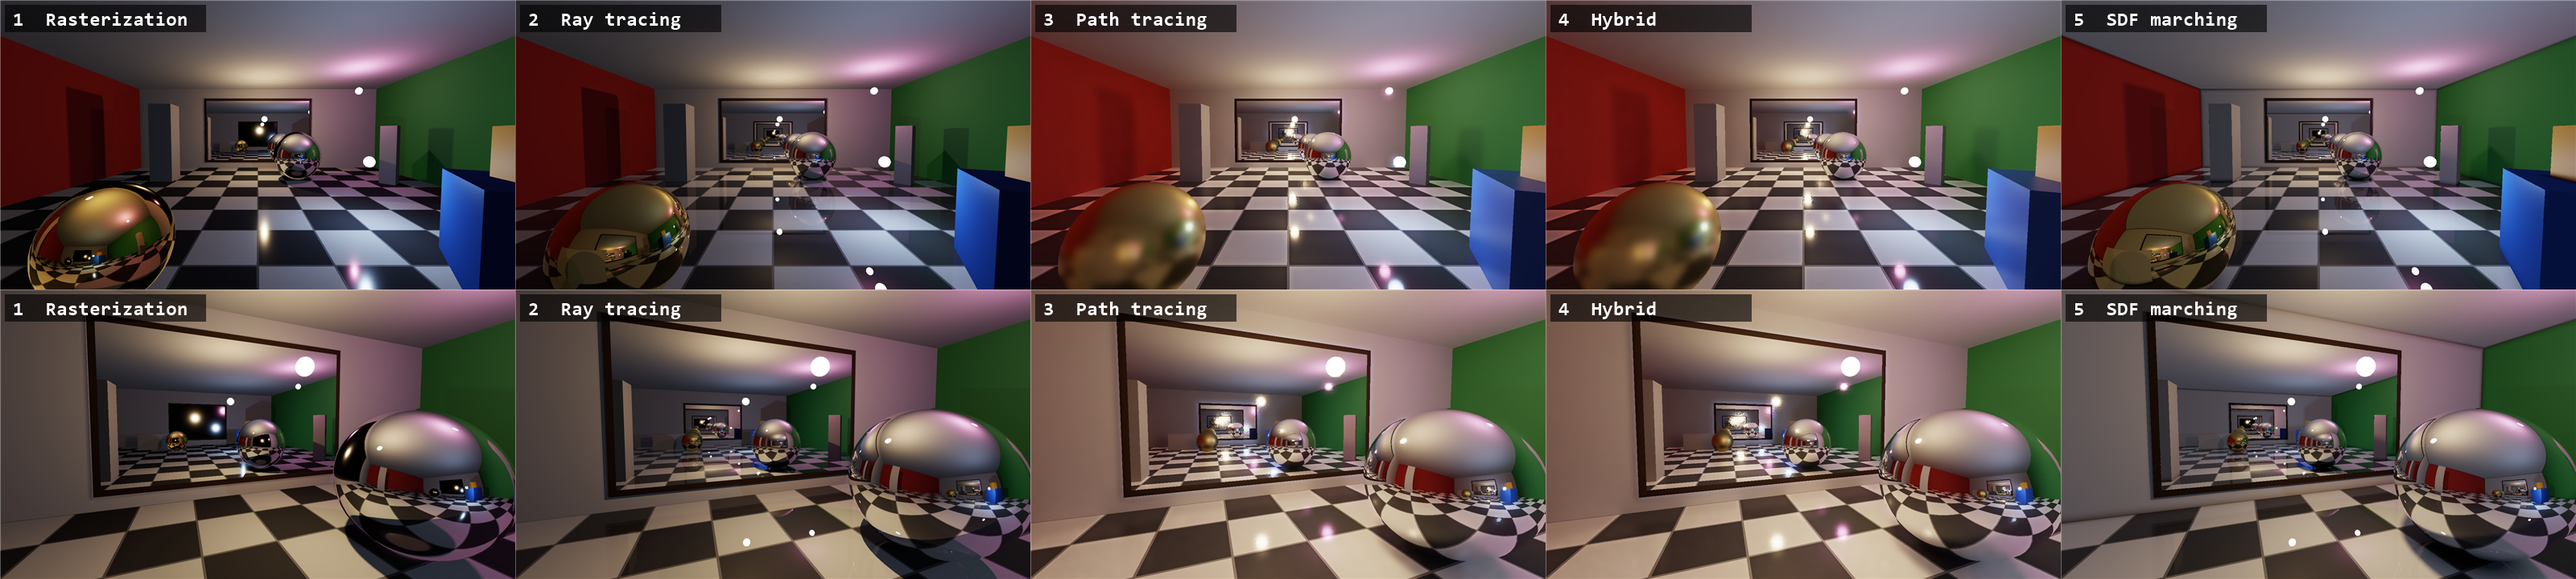
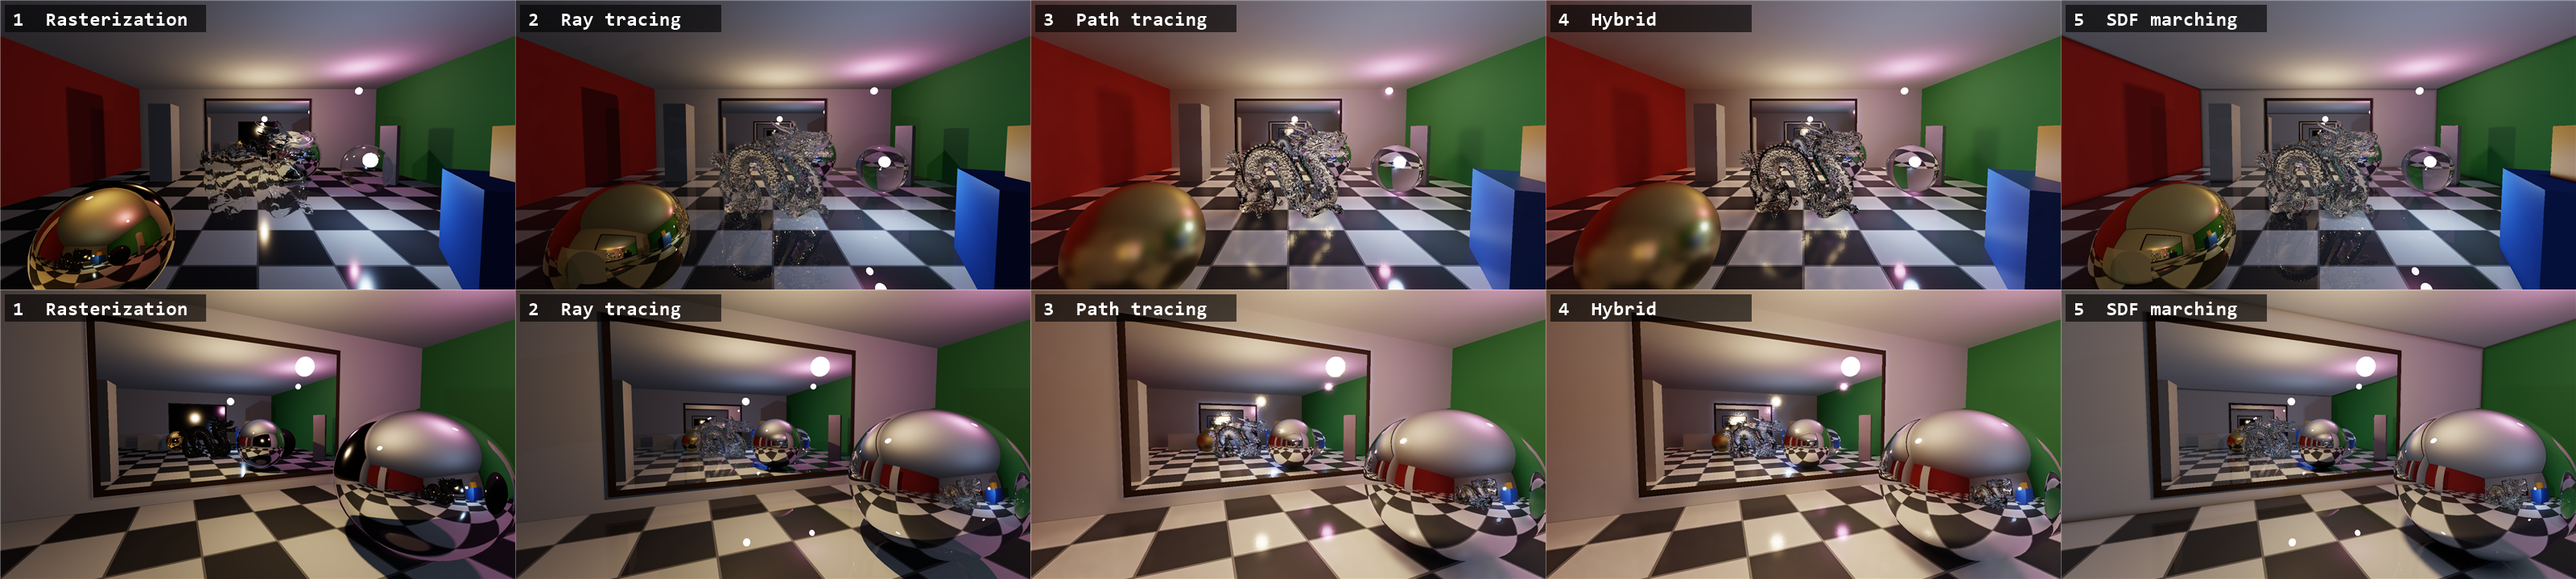
Add glass ball, generic glass handling, SDF shadow culling and --bench
- Static glass sphere; glass now works for any object in every mode
  (raster PS_Glass pass, RT via separate static-glass BLAS/instance,
  SDF per-primitive interior marching and tinted shadows)
- SDF soft shadows/AO only evaluate primitives near the query
  (bounding-sphere bitmasks), ~3x faster with the dragon
- --bench <dir>: GPU time per mode and model material
- Updated README comparison image and docs

diff --git a/src/RtxSlop/Renderer.cs b/src/RtxSlop/Renderer.cs
@@ -66,7 +66,7 @@ public sealed unsafe class Renderer : IDisposable
 
     // static scene data
     ID3D12Resource vb, ib, matBuf, sdfBuf;
-    ID3D12Resource blasStatic, blasSphere, blasMesh, tlas, tlasScratch;
+    ID3D12Resource blasStatic, blasGlass, blasSphere, blasMesh, tlas, tlasScratch;
     GpuTexture meshSdf;
     Vector3 meshSdfMin, meshSdfMax;
     readonly List<(int Index, Material Material)> pendingMaterials = new();
@@ -308,7 +308,9 @@ public sealed unsafe class Renderer : IDisposable
         }
 
         cl.ResourceBarrierUnorderedAccessView(null);
-        blasStatic = BuildBlas("BLAS static", 0, scene.StaticIndexCount);
+        blasStatic = BuildBlas("BLAS static", 0, scene.GlassFirstIndex);
+        if (scene.StaticIndexCount > scene.GlassFirstIndex)
+            blasGlass = BuildBlas("BLAS static glass", scene.GlassFirstIndex, scene.StaticIndexCount - scene.GlassFirstIndex);
         blasSphere = BuildBlas("BLAS light sphere", scene.SphereFirstIndex, scene.SphereIndexCount);
         if (scene.HasMesh)
             blasMesh = BuildBlas("BLAS mesh", scene.MeshFirstIndex, scene.MeshIndexCount);
@@ -341,7 +343,7 @@ public sealed unsafe class Renderer : IDisposable
         foreach (var u in uploads) u.Dispose();
     }
 
-    int TlasInstanceCount => 1 + scene.Lights.Length + (scene.HasMesh ? 1 : 0);
+    int TlasInstanceCount => 1 + scene.Lights.Length + (scene.HasMesh ? 1 : 0) + (blasGlass != null ? 1 : 0);
 
     // ---------------------------------------------------------------------------------------------
     // SDF mode: bake the mesh into a 3D signed distance texture (SdfBake.hlsl), once at startup
@@ -808,6 +810,7 @@ public sealed unsafe class Renderer : IDisposable
             ShadowIndex = SlotShadow, ProbeIndex = SlotProbe, StaticIndexCount = (uint)scene.StaticIndexCount,
             ProbePos = scene.ProbePositions[0], ShadowNear = ShadowNear, ShadowFar = ShadowFar,
             MeshFirstIndex = (uint)scene.MeshFirstIndex,
+            GlassFirstIndex = (uint)scene.GlassFirstIndex,
             MeshMaterial = scene.HasMesh ? (uint)scene.MeshMaterialIndex : 0xFFFFFFFFu,
             MeshSdfIndex = SlotMeshSdf, MeshSdfMin = meshSdfMin, MeshSdfMax = meshSdfMax,
         };
@@ -962,7 +965,7 @@ public sealed unsafe class Renderer : IDisposable
     void RenderRaster(UploadRing ring, Camera camera, Matrix4x4 view, Matrix4x4 proj, ulong mainPass, bool msaa)
     {
         var noClip = new Vector4(0, 0, 0, 1);
-        bool meshGlass = scene.MeshIsGlass;
+        var glassObjects = scene.Objects.Where(scene.IsGlass).ToList();
 
         // 1) omnidirectional shadow maps: 6 faces per light
         Transition(shadowMap, ResourceStates.DepthWrite);
@@ -977,8 +980,8 @@ public sealed unsafe class Renderer : IDisposable
                 cl.OMSetRenderTargets(0, (CpuDescriptorHandle*)null, false, dsv);
                 cl.ClearDepthStencilView(dsv, ClearFlags.Depth, 1, 0);
                 cl.SetGraphicsRootConstantBufferView(2, ring.Push(new PassData { ViewProj = CubeFaceViewProj(lp, f, ShadowNear, ShadowFar), CamPos = lp, ClipPlane = noClip }));
-                // mirrors hug the walls (nothing behind them to shadow); a glass mesh lets the light through
-                DrawScene(o => o.MirrorIndex < 0 && !(o.IsMesh && meshGlass), false);
+                // mirrors hug the walls (nothing behind them to shadow); glass lets the light through
+                DrawScene(o => o.MirrorIndex < 0 && !scene.IsGlass(o), false);
             }
         }
         Transition(shadowMap, ResourceStates.AllShaderResource);
@@ -1041,10 +1044,10 @@ public sealed unsafe class Renderer : IDisposable
         cl.ClearRenderTargetView(color.Rtv, new Color4(0, 0, 0, 1));
         cl.ClearDepthStencilView(dsvMain, ClearFlags.Depth, 1, 0);
         cl.SetGraphicsRootConstantBufferView(2, mainPass);
-        DrawScene(o => !(o.IsMesh && meshGlass), true);
+        DrawScene(o => !scene.IsGlass(o), true);
 
         // 5) glass: needs the finished opaque image to refract, so copy it and draw the mesh on top
-        if (meshGlass)
+        if (glassObjects.Count > 0)
         {
             if (msaa) ResolveMsaa();
             Transition(hdr, ResourceStates.CopySource);
@@ -1054,9 +1057,11 @@ public sealed unsafe class Renderer : IDisposable
             Transition(color, ResourceStates.RenderTarget);
             cl.OMSetRenderTargets(color.Rtv, dsvMain);
             cl.SetPipelineState(msaa ? psoGlassMsaa : psoGlass);
-            var mesh = scene.Objects.First(o => o.IsMesh);
-            RootConstants(false, (uint)mesh.FirstIndex, 0xFFFFFFFF, SlotSceneColor);
-            cl.DrawInstanced((uint)mesh.IndexCount, 1, 0, 0);
+            foreach (var o in glassObjects)
+            {
+                RootConstants(false, (uint)o.FirstIndex, 0xFFFFFFFF, SlotSceneColor);
+                cl.DrawInstanced((uint)o.IndexCount, 1, 0, 0);
+            }
         }
         if (msaa) ResolveMsaa();
     }
@@ -1083,8 +1088,11 @@ public sealed unsafe class Renderer : IDisposable
             var m = Matrix4x4.CreateScale(L.Radius) * Matrix4x4.CreateTranslation(L.Pos);
             inst[1 + i] = InstanceDesc.Create(m, (uint)(1 + i), 0x02, blasSphere.GPUVirtualAddress);
         }
+        int next = 1 + scene.Lights.Length;
         if (scene.HasMesh)
-            inst[1 + scene.Lights.Length] = InstanceDesc.Create(Matrix4x4.Identity, 100, 0x04, blasMesh.GPUVirtualAddress);   // INSTANCE_MESH, MASK_MESH
+            inst[next++] = InstanceDesc.Create(Matrix4x4.Identity, 100, 0x04, blasMesh.GPUVirtualAddress);    // INSTANCE_MESH, MASK_MESH
+        if (blasGlass != null)
+            inst[next++] = InstanceDesc.Create(Matrix4x4.Identity, 101, 0x08, blasGlass.GPUVirtualAddress);   // INSTANCE_GLASS, MASK_GLASS
         tlasInputs.InstanceDescriptions = a.Gpu;
         cl.BuildRaytracingAccelerationStructure(new BuildRaytracingAccelerationStructureDescription
         {
@@ -1241,7 +1249,7 @@ public sealed unsafe class Renderer : IDisposable
         WaitIdle();
         ReleaseSizeDependent();
         DisposePipelines();
-        foreach (var d in new IDisposable[] { shadowMap, probes[0], probes[1], probeDepth, hud, meshSdf, vb, ib, matBuf, sdfBuf, blasStatic, blasSphere, blasMesh, tlas, tlasScratch, queryHeap, queryReadback })
+        foreach (var d in new IDisposable[] { shadowMap, probes[0], probes[1], probeDepth, hud, meshSdf, vb, ib, matBuf, sdfBuf, blasStatic, blasGlass, blasSphere, blasMesh, tlas, tlasScratch, queryHeap, queryReadback })
             d?.Dispose();
         foreach (var r in rings) r.Dispose();
         foreach (var a in allocators) a.Dispose();

diff --git a/src/RtxSlop/Program.cs b/src/RtxSlop/Program.cs
@@ -21,7 +21,7 @@ static class Program
         catch (Exception ex)
         {
             File.WriteAllText(Path.Combine(AppContext.BaseDirectory, "error.log"), ex.ToString());
-            if (!args.Contains("--capture"))
+            if (!args.Contains("--capture") && !args.Contains("--bench"))
                 MessageBox.Show(ex.ToString(), "RtxSlop - fatal error", MessageBoxButtons.OK, MessageBoxIcon.Error);
         }
     }
@@ -35,7 +35,7 @@ sealed class MainForm : Form
     readonly RenderSettings settings = new();
     readonly HashSet<Keys> keys = new();
     readonly string shaderDir = Path.Combine(AppContext.BaseDirectory, "Shaders");
-    readonly string captureDir;
+    readonly string captureDir, benchDir;
 
     bool mouseCaptured;
     readonly string modelInfo;
@@ -62,6 +62,8 @@ sealed class MainForm : Form
         bool debug = args.Contains("--debug");
         int ci = Array.IndexOf(args, "--capture");
         if (ci >= 0) captureDir = ci + 1 < args.Length ? args[ci + 1] : "captures";
+        int bi = Array.IndexOf(args, "--bench");
+        if (bi >= 0) benchDir = bi + 1 < args.Length ? args[bi + 1] : ".";
 
         // polygon model: --model <file.obj>, else data/dragon/dragon.obj found above the exe; --no-model disables it
         ObjMesh mesh = null;
@@ -100,6 +102,14 @@ sealed class MainForm : Form
     public void Run()
     {
         Show();
+        if (benchDir != null)
+        {
+            showHud = false;
+            renderer.SetHud(DrawHud());
+            Directory.CreateDirectory(benchDir);
+            File.WriteAllText(Path.Combine(benchDir, "bench.txt"), MeasureTimings(allPresets: true));
+            return;
+        }
         if (captureDir != null)
         {
             RunCaptureScript();
@@ -319,6 +329,29 @@ sealed class MainForm : Form
     // ---------------------------------------------------------------------------------------------
     // --capture <dir>: render fixed viewpoints in every mode and save PNGs (used for testing)
     // ---------------------------------------------------------------------------------------------
+    /// <summary>GPU time of every mode from the front view with moving lights (optionally for every model material).</summary>
+    string MeasureTimings(bool allPresets)
+    {
+        camera.Position = new Vector3(0, 1.7f, -4.6f); camera.Yaw = 0; camera.Pitch = -0.05f;
+        var sb = new System.Text.StringBuilder();
+        sb.AppendLine($"{renderer.AdapterName}, {renderer.Width}x{renderer.Height}" + (scene.HasMesh ? $", model: {modelInfo}" : ""));
+        int presets = allPresets && scene.HasMesh ? scene.MeshPresets.Length : 1;
+        for (int p = 0; p < presets; p++)
+        {
+            if (p > 0) CycleMeshMaterial();
+            if (scene.HasMesh) sb.AppendLine($"-- model material: {scene.MeshPresets[scene.MeshPreset].Name}");
+            foreach (RenderMode mode in Enum.GetValues<RenderMode>())
+            {
+                settings.Mode = mode;
+                settings.LightsAnimating = true;
+                for (int i = 0; i < 120; i++) { lightTime += 1f / 120; scene.UpdateLights(lightTime); renderer.Render(camera, settings, lightTime); }
+                sb.AppendLine($"{mode,-10} {renderer.GpuTimeMs,7:F2} ms");
+            }
+        }
+        if (presets > 1) CycleMeshMaterial();   // back to where we started
+        return sb.ToString();
+    }
+
     void RunCaptureScript()
     {
         var views = new (string Name, Vector3 Pos, float Yaw, float Pitch)[]
@@ -398,22 +431,7 @@ sealed class MainForm : Form
         renderer.RequestCapture(Path.Combine(captureDir, "front_2_PathTrace_1spp_denoised.png"));
         renderer.Render(camera, settings, lightTime);
 
-        // timing sample
-        var sb = new System.Text.StringBuilder();
-        foreach (RenderMode mode in Enum.GetValues<RenderMode>())
-        {
-            settings.Mode = mode;
-            settings.LightsAnimating = true;
-            for (int i = 0; i < 120; i++) { lightTime += 1f / 120; scene.UpdateLights(lightTime); renderer.Render(camera, settings, lightTime); }
-            sb.AppendLine($"{mode}: gpu {renderer.GpuTimeMs:F2} ms @ {renderer.Width}x{renderer.Height}");
-        }
-        settings.Mode = RenderMode.Sdf;
-        settings.SdfAntiAliasing = true;
-        for (int i = 0; i < 120; i++) { lightTime += 1f / 120; scene.UpdateLights(lightTime); renderer.Render(camera, settings, lightTime); }
-        sb.AppendLine($"Sdf (4x SSAA): gpu {renderer.GpuTimeMs:F2} ms");
-        settings.SdfAntiAliasing = false;
-        if (scene.HasMesh) sb.AppendLine($"model: {modelInfo}, material {scene.MeshPresets[scene.MeshPreset].Name}");
-        File.WriteAllText(Path.Combine(captureDir, "timings.txt"), sb.ToString());
+        File.WriteAllText(Path.Combine(captureDir, "timings.txt"), MeasureTimings(allPresets: false));
 
         // resize path: swap chain + every size dependent target is recreated
         ClientSize = new Size(1280, 720);

diff --git a/src/RtxSlop/Scene.cs b/src/RtxSlop/Scene.cs
@@ -58,6 +58,7 @@ public sealed class SceneObject
     public int IndexCount;
     public int MirrorIndex = -1;     // >= 0 if this object is a planar mirror
     public int ProbeCenter = -1;     // >= 0: reflection probe captured from inside this object (it is skipped there)
+    public int Material = -1;        // material of the object's vertices
     public bool IsMesh;              // the loaded .obj model
 }
 
@@ -85,6 +86,7 @@ public sealed class Scene
     public int SdfPlaneCount;   // the same room as signed distance fields
 
     public int StaticIndexCount;
+    public int GlassFirstIndex;      // [GlassFirstIndex, StaticIndexCount) = static glass objects
     public int SphereFirstIndex, SphereIndexCount;
     public readonly Vector3[] ProbePositions = new Vector3[2];   // 0 = chrome sphere, 1 = mesh
 
@@ -98,7 +100,7 @@ public sealed class Scene
     public const float HalfX = 6f, HalfZ = 6f, Height = 4f;
 
     // Material indices
-    int mFloor, mWhite, mRed, mGreen, mCeiling, mFrame, mStone, mBlue, mOrange, mChrome, mGold;
+    int mFloor, mWhite, mRed, mGreen, mCeiling, mFrame, mStone, mBlue, mOrange, mChrome, mGold, mGlass;
 
     public Scene(Func<int, uint> mirrorTextureSlot, Func<int, uint> probeSlot, ObjMesh mesh)
     {
@@ -113,6 +115,8 @@ public sealed class Scene
         mOrange = AddMaterial(new Vector3(0.9f, 0.4f, 0.05f), 0.5f, 0);
         mChrome = AddMaterial(new Vector3(0.95f, 0.95f, 0.95f), 0.02f, 1, flags: Material.FlagProbe, tex: probeSlot(0));
         mGold = AddMaterial(new Vector3(1.0f, 0.78f, 0.34f), 0.25f, 1, flags: Material.FlagProbe, tex: probeSlot(0));
+        mGlass = AddMaterial(new Vector3(0.92f, 0.97f, 1.0f), 0, 0, Material.Glass, tex: probeSlot(0));
+        Materials[mGlass] = Materials[mGlass] with { Ior = 1.5f };
         MeshPresets = new (string, Material)[]
         {
             ("jade", new Material { Albedo = new Vector3(0.18f, 0.55f, 0.36f), Roughness = 0.45f }),
@@ -166,6 +170,10 @@ public sealed class Scene
         AddSphere(ProbePositions[0], 0.9f, mChrome, 64, 32); End();
         Begin("GoldSphere"); AddSphere(new(-1.5f, 0.6f, -2.5f), 0.6f, mGold, 48, 24); End();
 
+        // static glass goes last: it gets its own BLAS/instance so shadow rays can treat it separately
+        GlassFirstIndex = Indices.Count;
+        Begin("GlassSphere"); AddSphere(new(3.2f, 0.7f, 1.5f), 0.7f, mGlass, 64, 32); End();
+
         StaticIndexCount = Indices.Count;
 
         ProbePositions[1] = new Vector3(0, 1.0f, 0);
@@ -207,6 +215,7 @@ public sealed class Scene
 
         var obj = Begin("Mesh");
         obj.IsMesh = true;
+        obj.Material = MeshMaterialIndex;
         obj.ProbeCenter = 1;
         MeshFirstIndex = Indices.Count;
         foreach (int i in mesh.Indices) Indices.Add(baseV + (uint)i);
@@ -234,7 +243,7 @@ public sealed class Scene
         return Materials[MeshMaterialIndex];
     }
 
-    public bool MeshIsGlass => HasMesh && Materials[MeshMaterialIndex].Type == Material.Glass;
+    public bool IsGlass(SceneObject o) => o.Material >= 0 && Materials[o.Material].Type == Material.Glass;
 
     public void UpdateLights(float t)
     {
@@ -317,6 +326,7 @@ public sealed class Scene
     uint AddVertex(Vector3 p, Vector3 n, int mat)
     {
         Vertices.Add(new Vertex { Pos = p, Normal = n, Material = (uint)mat });
+        if (current != null) current.Material = mat;
         return (uint)(Vertices.Count - 1);
     }
 

diff --git a/src/RtxSlop/GpuTypes.cs b/src/RtxSlop/GpuTypes.cs
@@ -36,7 +36,7 @@ public struct FrameData
     public uint VbIndex, IbIndex, MatIndex, TlasIndex;
     public uint ShadowIndex, ProbeIndex, StaticIndexCount, MeshFirstIndex;
     public Vector3 ProbePos; public float ShadowNear;
-    public float ShadowFar; public uint MeshMaterial, MeshSdfIndex, Pad1;
+    public float ShadowFar; public uint MeshMaterial, MeshSdfIndex, GlassFirstIndex;
     public Vector3 MeshSdfMin; public float Pad2;
     public Vector3 MeshSdfMax; public float Pad3;
 }

diff --git a/CLAUDE.md b/CLAUDE.md
@@ -19,7 +19,7 @@ There are no unit tests. Verification is visual, via the built-in capture mode:
 src/RtxSlop/bin/Release/net10.0-windows/win-x64/RtxSlop.exe --capture <outDir>
 ```
 
-It renders 3 fixed viewpoints in every mode (path tracing modes accumulate 256 frames with lights paused), a moving-lights PT shot, 1-spp raw/denoised shots, a resize test, and writes `timings.txt` (GPU ms per mode), then exits. Read the PNGs to check changes. In capture mode, fatal errors go to `error.log` next to the exe instead of a MessageBox. `--debug` enables the D3D12 debug layer if Graphics Tools is installed (it falls back silently otherwise; messages go to `d3d12-debug.log` in the working directory).
+`--bench <dir>` only writes `bench.txt` (GPU ms per mode × model material, front view, moving lights). GPU timings are unreliable while other apps use the GPU (the user often has a game or Blender open). `--capture` renders 3 fixed viewpoints in every mode (path tracing modes accumulate 256 frames with lights paused), a moving-lights PT shot, 1-spp raw/denoised shots, a resize test, and writes `timings.txt` (GPU ms per mode), then exits. Read the PNGs to check changes. In capture mode, fatal errors go to `error.log` next to the exe instead of a MessageBox. `--debug` enables the D3D12 debug layer if Graphics Tools is installed (it falls back silently otherwise; messages go to `d3d12-debug.log` in the working directory).
 
 Shaders (`src/RtxSlop/Shaders/*.hlsl`) are copied to the output folder and compiled at startup with DXC. `F5` in the app recompiles them from the **output** folder, not from `src`. A running app locks the exe, so builds into `bin/` fail until it is closed.
 
@@ -35,6 +35,8 @@ Shaders (`src/RtxSlop/Shaders/*.hlsl`) are copied to the output folder and compi
 - **Raster mode** passes, in order: 18 cube-shadow faces (cube array, cull-front) → 6 reflection-probe faces at the chrome sphere → one planar-reflection pass per mirror (mirrored PSO, clip plane) → main pass (optional 4× MSAA + resolve). `PassFlags` stop mirrors and the probe from sampling themselves in the secondary passes.
 
 - **Polygon model** (`ObjLoader.cs`, `Scene.AddMesh`): its index range sits after the static geometry (`MeshFirstIndex`) and is drawn as a normal raster object, but it has its own BLAS and TLAS instance: `InstanceID` 100 (`INSTANCE_MESH`), mask 0x04 (`MASK_MESH`). Shaders use `IsLightInstance()`, and `GetSurface` adds `gMeshFirstIndex` for mesh hits. Its material is a single buffer entry (`MeshMaterialIndex`) that is rewritten at runtime (`Scene.SetMeshPreset` → `Renderer.SetMaterial`, uploaded at the start of the next frame, which also resets the PT history). Glass (`MAT_GLASS`) is handled separately in each mode; see the README table.
+- **Glass generally**: any material with `MAT_GLASS` works in PT/hybrid, raster (drawn last with `PS_Glass`, no raster shadow), RT and SDF. Static glass objects must be added last among the static objects (`Scene.GlassFirstIndex`..`StaticIndexCount`): they get their own BLAS/instance (`INSTANCE_GLASS` 101, `MASK_GLASS` 0x08, `gGlassFirstIndex`) so the RT `ShadowTransmittance` stays a few cheap queries. SDF tracks glass per primitive (`gsGlass`) and marches inside the primitive it entered.
+- **SDF performance**: soft shadows and AO only evaluate primitives whose bounding sphere can matter (`PrimsNearSegment`/`PrimsNearPoint` bitmasks). Without that culling the dragon made SDF ~3× slower.
 - **Raster probes**: probe 0 is at the chrome sphere, probe 1 at the model. Materials select their probe through `Material.TexIndex` (`Renderer.ProbeSlot`), and `SceneObject.ProbeCenter` excludes the object from its own probe. Glass is drawn last (`PS_Glass`) after copying the opaque HDR image into `sceneColor`.
 - **SDF mesh**: `SdfBake.hlsl` runs once at startup inside `CreateSceneResources` (it needs the TLAS for the inside/outside sign). `Sdf.hlsl` samples the result as primitive type `SDF_MESH` (always last in `SdfPrims`).
 

diff --git a/README.md b/README.md
@@ -12,7 +12,7 @@ An interactive C# / Direct3D 12 demo that renders the same scene in five ways. Y
 | `4` | **Hybrid** | How RTX games do it: primary visibility is rasterized into a G-buffer (position, normal, material), and the path tracer starts from that surface instead of tracing camera rays. Everything after the first hit is traced exactly as in mode 3 |
 | `5` | **SDF ray marching** | No triangles, rasterizer or RT cores: the room is ~20 analytic signed distance fields (half-spaces, rotated boxes, spheres), sphere traced in a compute shader. Soft shadows and ambient occlusion come from the distance field itself; mirror/metal reflections are marched too |
 
-The scene is a 12 × 4 × 12 m room with a Cornell-style red and green wall, a polished checkered floor, two mirrors that face each other, pillars and boxes that cast shadows, a chrome sphere and a gold sphere, and three moving colored sphere lights.
+The scene is a 12 × 4 × 12 m room with a Cornell-style red and green wall, a polished checkered floor, two mirrors that face each other, pillars and boxes that cast shadows, a chrome sphere, a gold sphere and a glass ball, and three moving colored sphere lights.
 
 ## Requirements
 
@@ -60,7 +60,7 @@ A Wavefront `.obj` model sits in the middle of the room. By default it is `data/
 | Path tracing / hybrid | Delta dielectric BSDF (caustics emerge naturally) | GGX, glossy |
 | SDF | Model baked at startup into a 128³-ish distance texture (GPU jump flooding, sign from ray queries); refraction marches the inside | Marched reflection |
 
-Command-line flags: `--debug` enables the D3D12 debug layer (it needs the Windows "Graphics Tools" optional feature). `--capture <dir>` renders fixed viewpoints in every mode, saves PNGs and timings, then exits.
+Command-line flags: `--debug` enables the D3D12 debug layer (it needs the Windows "Graphics Tools" optional feature). `--capture <dir>` renders fixed viewpoints in every mode, saves PNGs and timings, then exits. `--bench <dir>` only measures GPU time per mode and model material (`bench.txt`).
 
 ## Architecture
 
